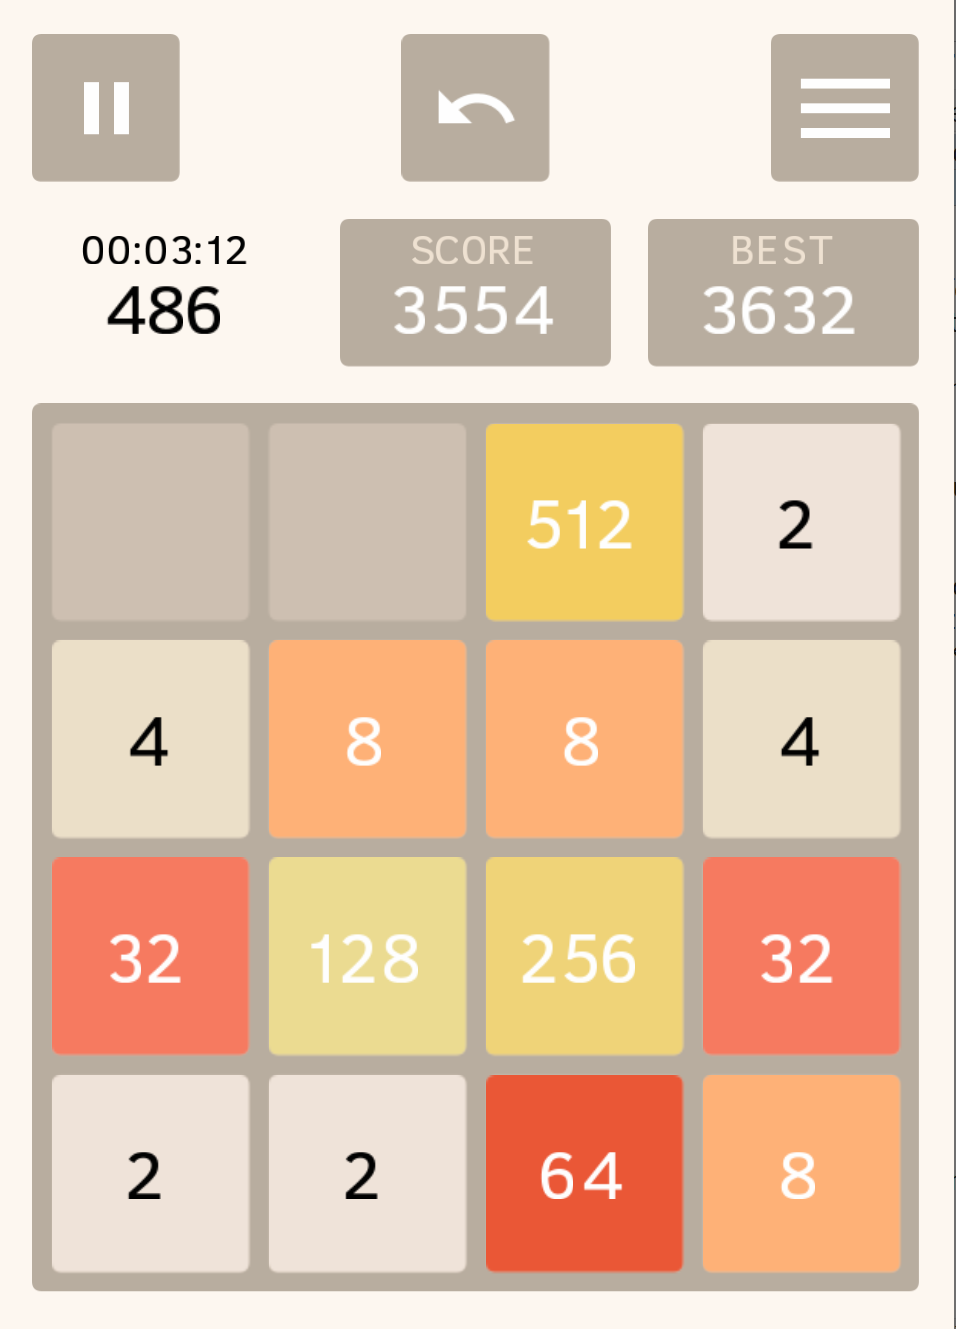
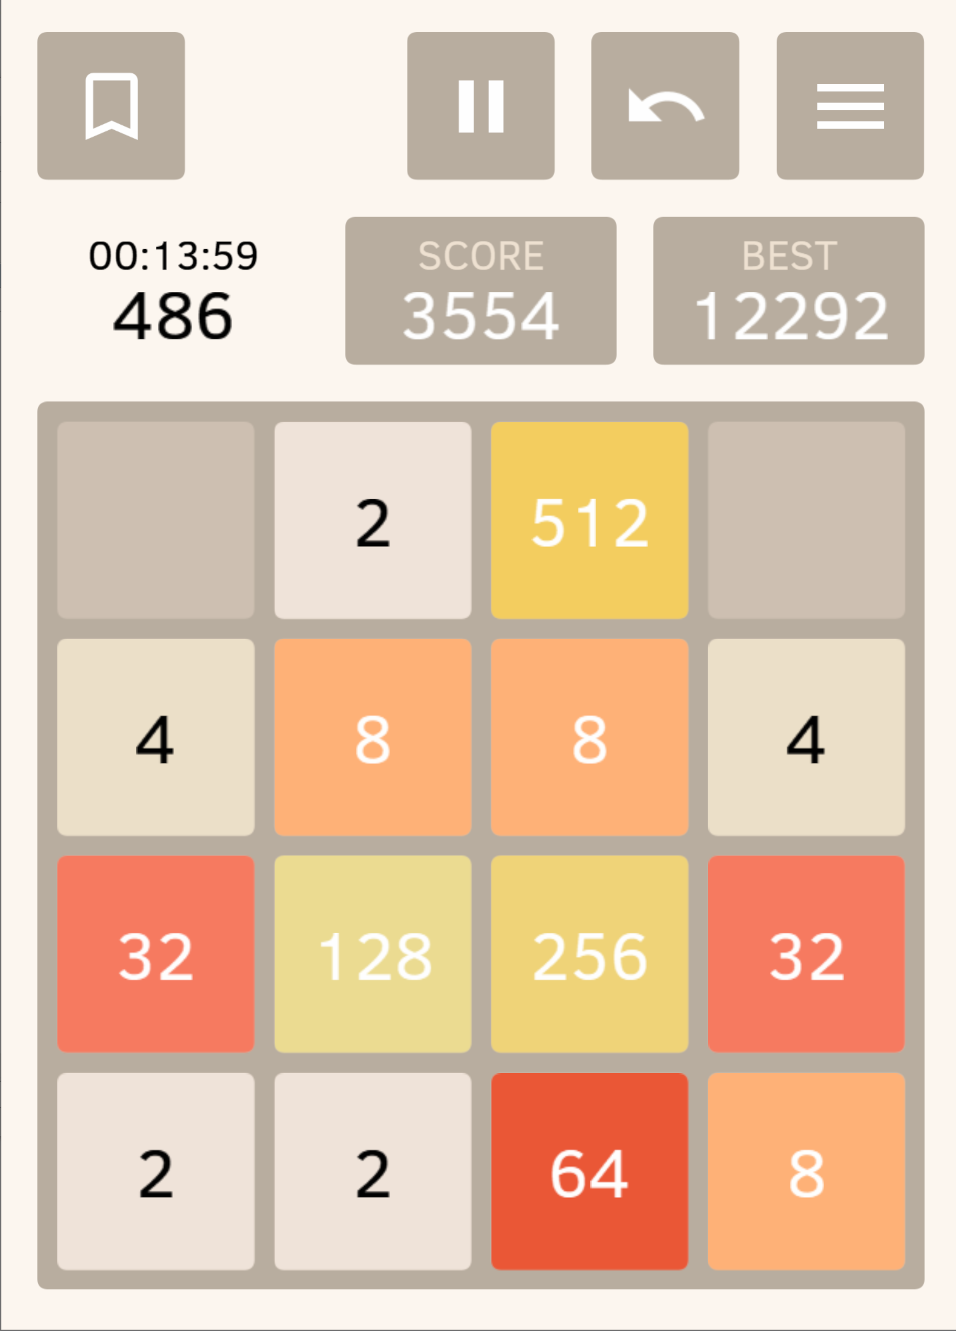
Bookmarks feature: Descriptions and screenshots updated

diff --git a/README.md b/README.md
@@ -26,18 +26,19 @@ Number 2048 is a good first win…
 ### Features of "2048 Open Fun Game" that are not present in the original game
 
 * Unlimited and animated Undo and Redo.
-* Bookmarks at the interesting game positions.
+* Bookmarks at the interesting game positions. Return to a bookmark and play again from that place.
 * Move number and game duration shown. The time starts when you make a move.
   It stops when you tap Undo or Pause button.
-* "Watch" mode. Auto replay current game forward and backwards with any speed,
+* "Watch" mode. Auto replay current game forward and backwards at any speed,
   stop at any position.
   Switch to "Play" mode from that place and continue playing, overriding history.
-* The Latest games with all their moves and scores are stored in a history and can be replayed.
-* Game menu allows you to delete current game from history, to restart a game
+* The Latest games with all their moves, bookmarks and scores are stored in a history and can be watched.
+  Or you can play them again.
+* Game menu allows you to delete current game from history, to restart a game ("Try again")
   or to restore existing game from a list.
-* When you tap "Restart" button or restore existing game, current game is automatically saved to the history,
+* When you tap "Try again" button or restore existing game, current game is automatically saved to the history,
   so you can review or continue to play it later.
-* Share a game as a file, so it can be loaded and replayed on any other device.
+* Share a game as a file, so it can be loaded, watched and even played on any other device.
 
 <p>
 <img title="Main screen of Game2048 app" src="game2048-android/src/main/play/listings/en-US/graphics/phone-screenshots/1.png" height="400" />
@@ -77,7 +78,8 @@ No changes yet, please see [Features](#features).
 ## Android-specific project
 This multiplatform project has additional Android-specific project that is customized to have richer User experience
 on Android platform.
-The project is in the *game2048-android* subfolder and can be opened and run using Android Studio. 
+The project is in the *game2048-android* subfolder and can be opened and run using Android Studio.  
+It consist mostly of configuration files and manifests, and reuses common source code.
 
 ## Running on all platforms
 The implementation uses the [KorGe template project](https://github.com/korlibs/korge-hello-world#readme).
